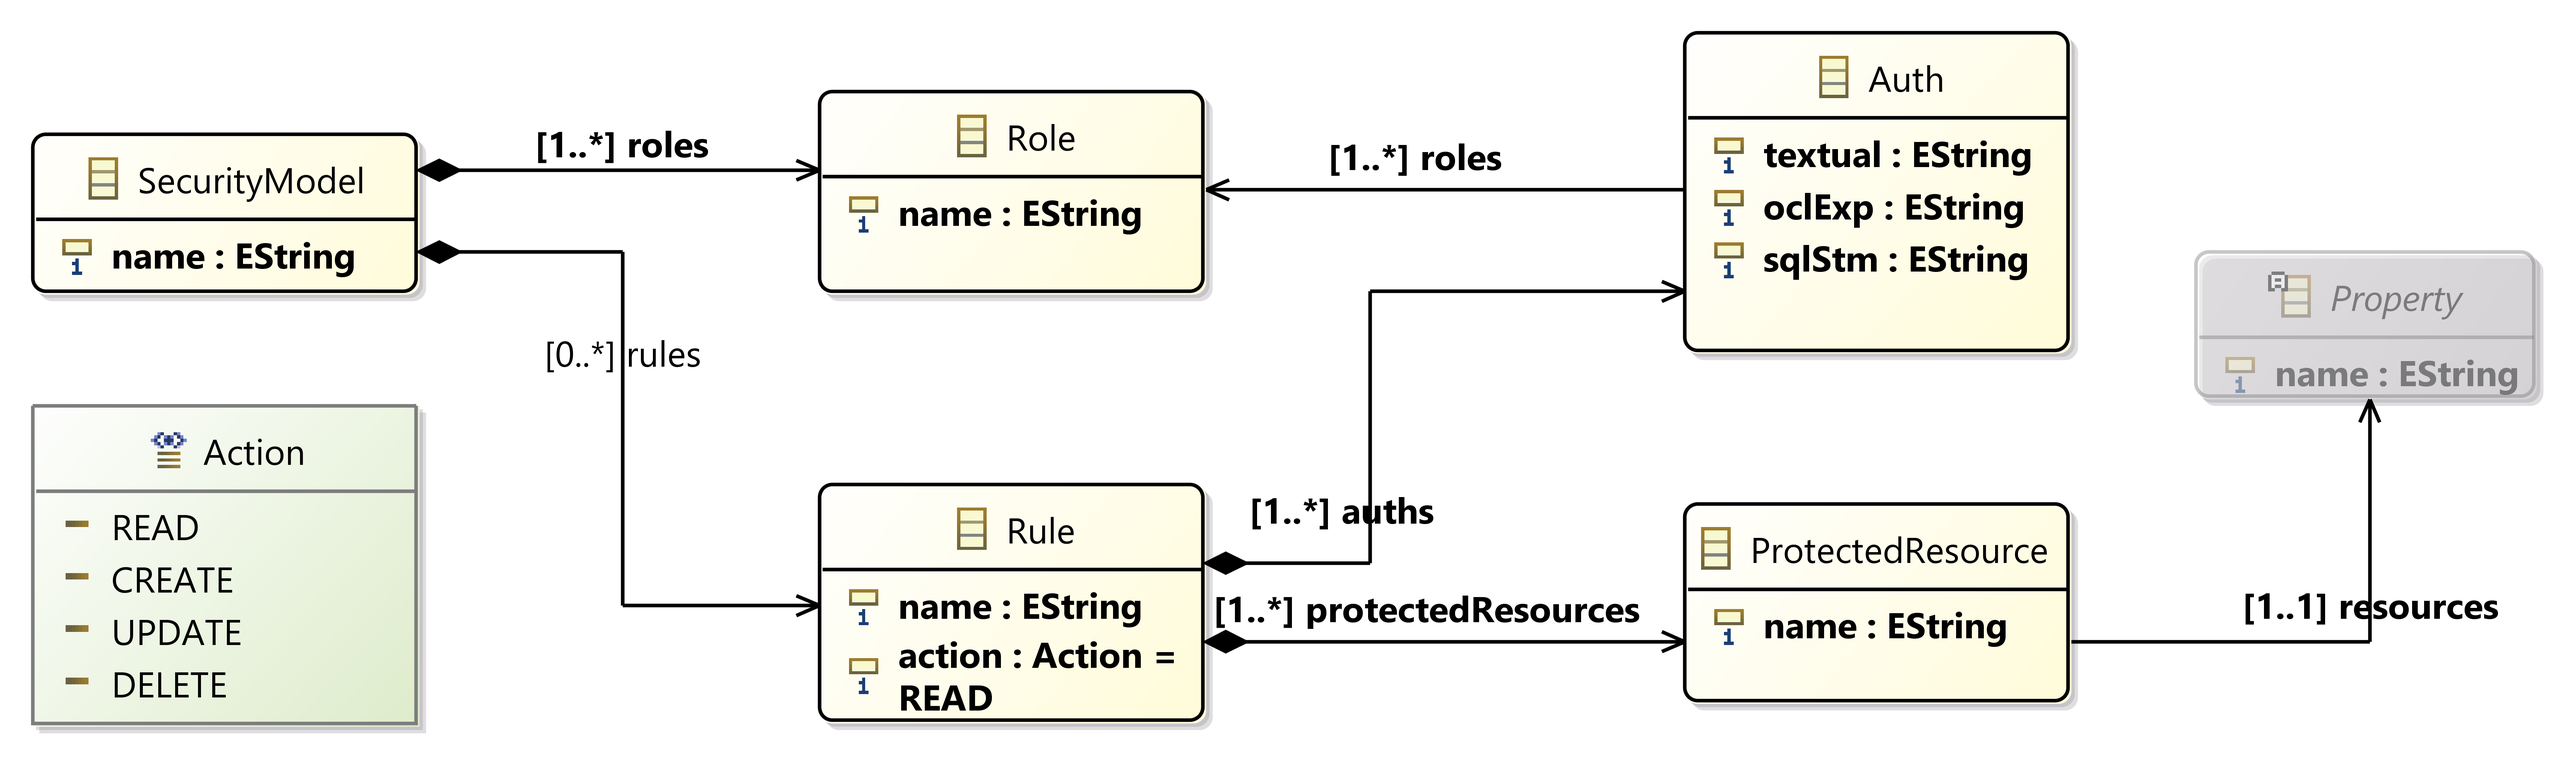
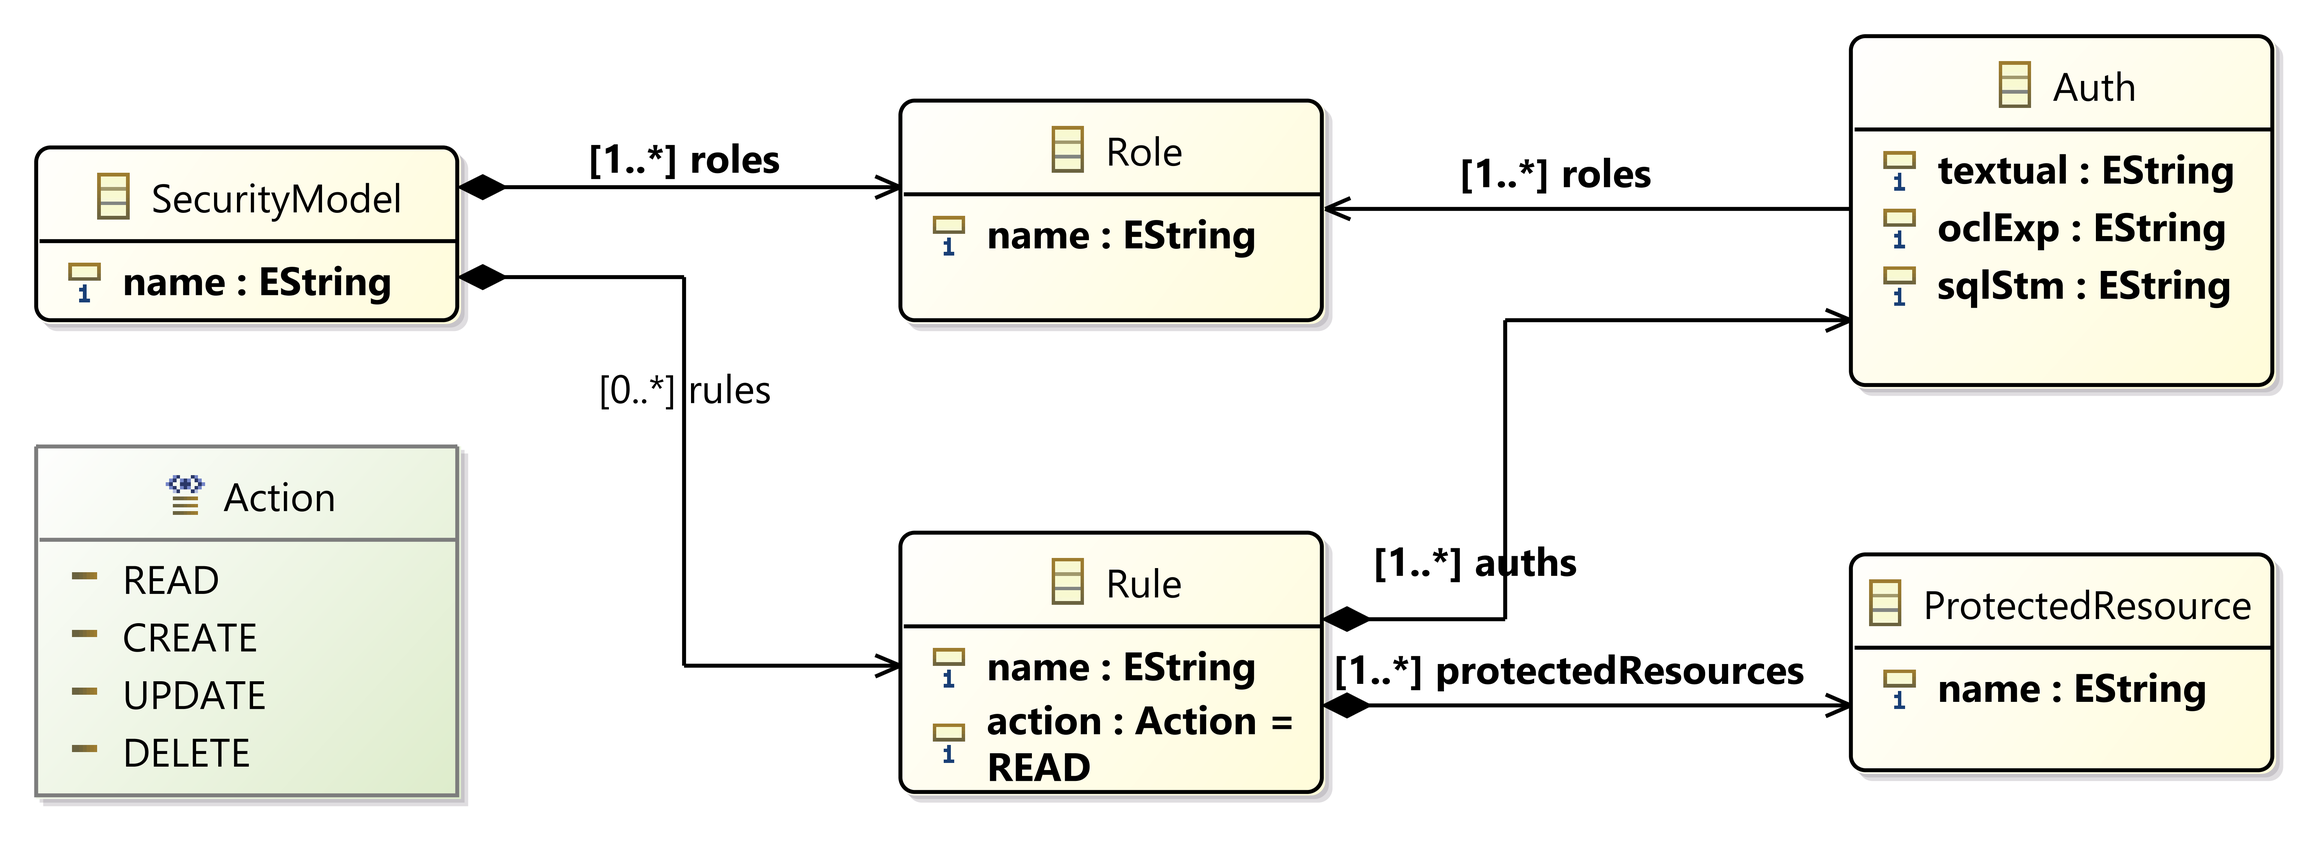
Small changes on the new metamodel version

diff --git a/securitymodels/src/securitymodels/impl/RoleImpl.java b/securitymodels/src/securitymodels/impl/RoleImpl.java
@@ -2,9 +2,12 @@
  */
 package securitymodels.impl;
 
+import datamodels.Entity;
+
 import org.eclipse.emf.common.notify.Notification;
 
 import org.eclipse.emf.ecore.EClass;
+import org.eclipse.emf.ecore.InternalEObject;
 
 import org.eclipse.emf.ecore.impl.ENotificationImpl;
 import org.eclipse.emf.ecore.impl.MinimalEObjectImpl;
@@ -21,6 +24,7 @@ import securitymodels.SecuritymodelsPackage;
  * </p>
  * <ul>
  *   <li>{@link securitymodels.impl.RoleImpl#getName <em>Name</em>}</li>
+ *   <li>{@link securitymodels.impl.RoleImpl#getUserEntity <em>User Entity</em>}</li>
  * </ul>
  *
  * @generated
@@ -45,6 +49,16 @@ public class RoleImpl extends MinimalEObjectImpl.Container implements Role {
 	 * @ordered
 	 */
 	protected String name = NAME_EDEFAULT;
+
+	/**
+	 * The cached value of the '{@link #getUserEntity() <em>User Entity</em>}' reference.
+	 * <!-- begin-user-doc -->
+	 * <!-- end-user-doc -->
+	 * @see #getUserEntity()
+	 * @generated
+	 * @ordered
+	 */
+	protected Entity userEntity;
 
 	/**
 	 * <!-- begin-user-doc -->
@@ -91,11 +105,52 @@ public class RoleImpl extends MinimalEObjectImpl.Container implements Role {
 	 * <!-- end-user-doc -->
 	 * @generated
 	 */
+	public Entity getUserEntity() {
+		if (userEntity != null && userEntity.eIsProxy()) {
+			InternalEObject oldUserEntity = (InternalEObject)userEntity;
+			userEntity = (Entity)eResolveProxy(oldUserEntity);
+			if (userEntity != oldUserEntity) {
+				if (eNotificationRequired())
+					eNotify(new ENotificationImpl(this, Notification.RESOLVE, SecuritymodelsPackage.ROLE__USER_ENTITY, oldUserEntity, userEntity));
+			}
+		}
+		return userEntity;
+	}
+
+	/**
+	 * <!-- begin-user-doc -->
+	 * <!-- end-user-doc -->
+	 * @generated
+	 */
+	public Entity basicGetUserEntity() {
+		return userEntity;
+	}
+
+	/**
+	 * <!-- begin-user-doc -->
+	 * <!-- end-user-doc -->
+	 * @generated
+	 */
+	public void setUserEntity(Entity newUserEntity) {
+		Entity oldUserEntity = userEntity;
+		userEntity = newUserEntity;
+		if (eNotificationRequired())
+			eNotify(new ENotificationImpl(this, Notification.SET, SecuritymodelsPackage.ROLE__USER_ENTITY, oldUserEntity, userEntity));
+	}
+
+	/**
+	 * <!-- begin-user-doc -->
+	 * <!-- end-user-doc -->
+	 * @generated
+	 */
 	@Override
 	public Object eGet(int featureID, boolean resolve, boolean coreType) {
 		switch (featureID) {
 			case SecuritymodelsPackage.ROLE__NAME:
 				return getName();
+			case SecuritymodelsPackage.ROLE__USER_ENTITY:
+				if (resolve) return getUserEntity();
+				return basicGetUserEntity();
 		}
 		return super.eGet(featureID, resolve, coreType);
 	}
@@ -110,6 +165,9 @@ public class RoleImpl extends MinimalEObjectImpl.Container implements Role {
 		switch (featureID) {
 			case SecuritymodelsPackage.ROLE__NAME:
 				setName((String)newValue);
+				return;
+			case SecuritymodelsPackage.ROLE__USER_ENTITY:
+				setUserEntity((Entity)newValue);
 				return;
 		}
 		super.eSet(featureID, newValue);
@@ -126,6 +184,9 @@ public class RoleImpl extends MinimalEObjectImpl.Container implements Role {
 			case SecuritymodelsPackage.ROLE__NAME:
 				setName(NAME_EDEFAULT);
 				return;
+			case SecuritymodelsPackage.ROLE__USER_ENTITY:
+				setUserEntity((Entity)null);
+				return;
 		}
 		super.eUnset(featureID);
 	}
@@ -140,6 +201,8 @@ public class RoleImpl extends MinimalEObjectImpl.Container implements Role {
 		switch (featureID) {
 			case SecuritymodelsPackage.ROLE__NAME:
 				return NAME_EDEFAULT == null ? name != null : !NAME_EDEFAULT.equals(name);
+			case SecuritymodelsPackage.ROLE__USER_ENTITY:
+				return userEntity != null;
 		}
 		return super.eIsSet(featureID);
 	}

diff --git a/securitymodels/src/securitymodels/SecuritymodelsPackage.java b/securitymodels/src/securitymodels/SecuritymodelsPackage.java
@@ -214,7 +214,7 @@ public interface SecuritymodelsPackage extends EPackage {
 	int RULE__AUTHS = 2;
 
 	/**
-	 * The feature id for the '<em><b>Protected Resources</b></em>' reference list.
+	 * The feature id for the '<em><b>Protected Resources</b></em>' containment reference list.
 	 * <!-- begin-user-doc -->
 	 * <!-- end-user-doc -->
 	 * @generated
@@ -260,13 +260,22 @@ public interface SecuritymodelsPackage extends EPackage {
 	int ROLE__NAME = 0;
 
 	/**
+	 * The feature id for the '<em><b>User Entity</b></em>' reference.
+	 * <!-- begin-user-doc -->
+	 * <!-- end-user-doc -->
+	 * @generated
+	 * @ordered
+	 */
+	int ROLE__USER_ENTITY = 1;
+
+	/**
 	 * The number of structural features of the '<em>Role</em>' class.
 	 * <!-- begin-user-doc -->
 	 * <!-- end-user-doc -->
 	 * @generated
 	 * @ordered
 	 */
-	int ROLE_FEATURE_COUNT = 1;
+	int ROLE_FEATURE_COUNT = 2;
 
 	/**
 	 * The number of operations of the '<em>Role</em>' class.
@@ -475,10 +484,10 @@ public interface SecuritymodelsPackage extends EPackage {
 	EReference getRule_Auths();
 
 	/**
-	 * Returns the meta object for the reference list '{@link securitymodels.Rule#getProtectedResources <em>Protected Resources</em>}'.
+	 * Returns the meta object for the containment reference list '{@link securitymodels.Rule#getProtectedResources <em>Protected Resources</em>}'.
 	 * <!-- begin-user-doc -->
 	 * <!-- end-user-doc -->
-	 * @return the meta object for the reference list '<em>Protected Resources</em>'.
+	 * @return the meta object for the containment reference list '<em>Protected Resources</em>'.
 	 * @see securitymodels.Rule#getProtectedResources()
 	 * @see #getRule()
 	 * @generated
@@ -505,6 +514,17 @@ public interface SecuritymodelsPackage extends EPackage {
 	 * @generated
 	 */
 	EAttribute getRole_Name();
+
+	/**
+	 * Returns the meta object for the reference '{@link securitymodels.Role#getUserEntity <em>User Entity</em>}'.
+	 * <!-- begin-user-doc -->
+	 * <!-- end-user-doc -->
+	 * @return the meta object for the reference '<em>User Entity</em>'.
+	 * @see securitymodels.Role#getUserEntity()
+	 * @see #getRole()
+	 * @generated
+	 */
+	EReference getRole_UserEntity();
 
 	/**
 	 * Returns the meta object for class '{@link securitymodels.ProtectedResource <em>Protected Resource</em>}'.
@@ -682,7 +702,7 @@ public interface SecuritymodelsPackage extends EPackage {
 		EReference RULE__AUTHS = eINSTANCE.getRule_Auths();
 
 		/**
-		 * The meta object literal for the '<em><b>Protected Resources</b></em>' reference list feature.
+		 * The meta object literal for the '<em><b>Protected Resources</b></em>' containment reference list feature.
 		 * <!-- begin-user-doc -->
 		 * <!-- end-user-doc -->
 		 * @generated
@@ -706,6 +726,14 @@ public interface SecuritymodelsPackage extends EPackage {
 		 * @generated
 		 */
 		EAttribute ROLE__NAME = eINSTANCE.getRole_Name();
+
+		/**
+		 * The meta object literal for the '<em><b>User Entity</b></em>' reference feature.
+		 * <!-- begin-user-doc -->
+		 * <!-- end-user-doc -->
+		 * @generated
+		 */
+		EReference ROLE__USER_ENTITY = eINSTANCE.getRole_UserEntity();
 
 		/**
 		 * The meta object literal for the '{@link securitymodels.impl.ProtectedResourceImpl <em>Protected Resource</em>}' class.

diff --git a/securitymodels/src/securitymodels/impl/SecuritymodelsPackageImpl.java b/securitymodels/src/securitymodels/impl/SecuritymodelsPackageImpl.java
@@ -283,6 +283,15 @@ public class SecuritymodelsPackageImpl extends EPackageImpl implements Securitym
 	 * <!-- end-user-doc -->
 	 * @generated
 	 */
+	public EReference getRole_UserEntity() {
+		return (EReference)roleEClass.getEStructuralFeatures().get(1);
+	}
+
+	/**
+	 * <!-- begin-user-doc -->
+	 * <!-- end-user-doc -->
+	 * @generated
+	 */
 	public EClass getProtectedResource() {
 		return protectedResourceEClass;
 	}
@@ -361,6 +370,7 @@ public class SecuritymodelsPackageImpl extends EPackageImpl implements Securitym
 
 		roleEClass = createEClass(ROLE);
 		createEAttribute(roleEClass, ROLE__NAME);
+		createEReference(roleEClass, ROLE__USER_ENTITY);
 
 		protectedResourceEClass = createEClass(PROTECTED_RESOURCE);
 		createEReference(protectedResourceEClass, PROTECTED_RESOURCE__RESOURCES);
@@ -418,10 +428,11 @@ public class SecuritymodelsPackageImpl extends EPackageImpl implements Securitym
 		initEAttribute(getRule_Name(), ecorePackage.getEString(), "name", null, 1, 1, Rule.class, !IS_TRANSIENT, !IS_VOLATILE, IS_CHANGEABLE, !IS_UNSETTABLE, !IS_ID, IS_UNIQUE, !IS_DERIVED, IS_ORDERED);
 		initEAttribute(getRule_Action(), this.getAction(), "action", null, 1, 1, Rule.class, !IS_TRANSIENT, !IS_VOLATILE, IS_CHANGEABLE, !IS_UNSETTABLE, !IS_ID, IS_UNIQUE, !IS_DERIVED, IS_ORDERED);
 		initEReference(getRule_Auths(), this.getAuth(), null, "auths", null, 1, -1, Rule.class, !IS_TRANSIENT, !IS_VOLATILE, IS_CHANGEABLE, IS_COMPOSITE, !IS_RESOLVE_PROXIES, !IS_UNSETTABLE, IS_UNIQUE, !IS_DERIVED, IS_ORDERED);
-		initEReference(getRule_ProtectedResources(), this.getProtectedResource(), null, "protectedResources", null, 1, -1, Rule.class, !IS_TRANSIENT, !IS_VOLATILE, IS_CHANGEABLE, !IS_COMPOSITE, IS_RESOLVE_PROXIES, !IS_UNSETTABLE, IS_UNIQUE, !IS_DERIVED, IS_ORDERED);
+		initEReference(getRule_ProtectedResources(), this.getProtectedResource(), null, "protectedResources", null, 1, -1, Rule.class, !IS_TRANSIENT, !IS_VOLATILE, IS_CHANGEABLE, IS_COMPOSITE, !IS_RESOLVE_PROXIES, !IS_UNSETTABLE, IS_UNIQUE, !IS_DERIVED, IS_ORDERED);
 
 		initEClass(roleEClass, Role.class, "Role", !IS_ABSTRACT, !IS_INTERFACE, IS_GENERATED_INSTANCE_CLASS);
 		initEAttribute(getRole_Name(), ecorePackage.getEString(), "name", null, 1, 1, Role.class, !IS_TRANSIENT, !IS_VOLATILE, IS_CHANGEABLE, !IS_UNSETTABLE, !IS_ID, IS_UNIQUE, !IS_DERIVED, IS_ORDERED);
+		initEReference(getRole_UserEntity(), theDatamodelsPackage.getEntity(), null, "userEntity", null, 1, 1, Role.class, !IS_TRANSIENT, !IS_VOLATILE, IS_CHANGEABLE, !IS_COMPOSITE, IS_RESOLVE_PROXIES, !IS_UNSETTABLE, IS_UNIQUE, !IS_DERIVED, IS_ORDERED);
 
 		initEClass(protectedResourceEClass, ProtectedResource.class, "ProtectedResource", !IS_ABSTRACT, !IS_INTERFACE, IS_GENERATED_INSTANCE_CLASS);
 		initEReference(getProtectedResource_Resources(), theDatamodelsPackage.getProperty(), null, "resources", null, 1, 1, ProtectedResource.class, !IS_TRANSIENT, !IS_VOLATILE, IS_CHANGEABLE, !IS_COMPOSITE, IS_RESOLVE_PROXIES, !IS_UNSETTABLE, IS_UNIQUE, !IS_DERIVED, IS_ORDERED);

diff --git a/securitymodels/src/securitymodels/impl/RuleImpl.java b/securitymodels/src/securitymodels/impl/RuleImpl.java
@@ -16,7 +16,6 @@ import org.eclipse.emf.ecore.impl.ENotificationImpl;
 import org.eclipse.emf.ecore.impl.MinimalEObjectImpl;
 
 import org.eclipse.emf.ecore.util.EObjectContainmentEList;
-import org.eclipse.emf.ecore.util.EObjectResolvingEList;
 import org.eclipse.emf.ecore.util.InternalEList;
 
 import securitymodels.Action;
@@ -93,7 +92,7 @@ public class RuleImpl extends MinimalEObjectImpl.Container implements Rule {
 	protected EList<Auth> auths;
 
 	/**
-	 * The cached value of the '{@link #getProtectedResources() <em>Protected Resources</em>}' reference list.
+	 * The cached value of the '{@link #getProtectedResources() <em>Protected Resources</em>}' containment reference list.
 	 * <!-- begin-user-doc -->
 	 * <!-- end-user-doc -->
 	 * @see #getProtectedResources()
@@ -182,7 +181,7 @@ public class RuleImpl extends MinimalEObjectImpl.Container implements Rule {
 	 */
 	public EList<ProtectedResource> getProtectedResources() {
 		if (protectedResources == null) {
-			protectedResources = new EObjectResolvingEList<ProtectedResource>(ProtectedResource.class, this, SecuritymodelsPackage.RULE__PROTECTED_RESOURCES);
+			protectedResources = new EObjectContainmentEList<ProtectedResource>(ProtectedResource.class, this, SecuritymodelsPackage.RULE__PROTECTED_RESOURCES);
 		}
 		return protectedResources;
 	}
@@ -197,6 +196,8 @@ public class RuleImpl extends MinimalEObjectImpl.Container implements Rule {
 		switch (featureID) {
 			case SecuritymodelsPackage.RULE__AUTHS:
 				return ((InternalEList<?>)getAuths()).basicRemove(otherEnd, msgs);
+			case SecuritymodelsPackage.RULE__PROTECTED_RESOURCES:
+				return ((InternalEList<?>)getProtectedResources()).basicRemove(otherEnd, msgs);
 		}
 		return super.eInverseRemove(otherEnd, featureID, msgs);
 	}

diff --git a/securitymodels/src/securitymodels/Role.java b/securitymodels/src/securitymodels/Role.java
@@ -2,6 +2,8 @@
  */
 package securitymodels;
 
+import datamodels.Entity;
+
 import org.eclipse.emf.ecore.EObject;
 
 /**
@@ -14,6 +16,7 @@ import org.eclipse.emf.ecore.EObject;
  * </p>
  * <ul>
  *   <li>{@link securitymodels.Role#getName <em>Name</em>}</li>
+ *   <li>{@link securitymodels.Role#getUserEntity <em>User Entity</em>}</li>
  * </ul>
  *
  * @see securitymodels.SecuritymodelsPackage#getRole()
@@ -46,5 +49,31 @@ public interface Role extends EObject {
 	 * @generated
 	 */
 	void setName(String value);
+
+	/**
+	 * Returns the value of the '<em><b>User Entity</b></em>' reference.
+	 * <!-- begin-user-doc -->
+	 * <p>
+	 * If the meaning of the '<em>User Entity</em>' reference isn't clear,
+	 * there really should be more of a description here...
+	 * </p>
+	 * <!-- end-user-doc -->
+	 * @return the value of the '<em>User Entity</em>' reference.
+	 * @see #setUserEntity(Entity)
+	 * @see securitymodels.SecuritymodelsPackage#getRole_UserEntity()
+	 * @model required="true"
+	 * @generated
+	 */
+	Entity getUserEntity();
+
+	/**
+	 * Sets the value of the '{@link securitymodels.Role#getUserEntity <em>User Entity</em>}' reference.
+	 * <!-- begin-user-doc -->
+	 * <!-- end-user-doc -->
+	 * @param value the new value of the '<em>User Entity</em>' reference.
+	 * @see #getUserEntity()
+	 * @generated
+	 */
+	void setUserEntity(Entity value);
 
 } // Role

diff --git a/securitymodels/src/securitymodels/Rule.java b/securitymodels/src/securitymodels/Rule.java
@@ -98,17 +98,17 @@ public interface Rule extends EObject {
 	EList<Auth> getAuths();
 
 	/**
-	 * Returns the value of the '<em><b>Protected Resources</b></em>' reference list.
+	 * Returns the value of the '<em><b>Protected Resources</b></em>' containment reference list.
 	 * The list contents are of type {@link securitymodels.ProtectedResource}.
 	 * <!-- begin-user-doc -->
 	 * <p>
-	 * If the meaning of the '<em>Protected Resources</em>' reference list isn't clear,
+	 * If the meaning of the '<em>Protected Resources</em>' containment reference list isn't clear,
 	 * there really should be more of a description here...
 	 * </p>
 	 * <!-- end-user-doc -->
-	 * @return the value of the '<em>Protected Resources</em>' reference list.
+	 * @return the value of the '<em>Protected Resources</em>' containment reference list.
 	 * @see securitymodels.SecuritymodelsPackage#getRule_ProtectedResources()
-	 * @model required="true"
+	 * @model containment="true" required="true"
 	 * @generated
 	 */
 	EList<ProtectedResource> getProtectedResources();

diff --git a/securitymodels.edit/src/securitymodels/provider/RoleItemProvider.java b/securitymodels.edit/src/securitymodels/provider/RoleItemProvider.java
@@ -61,6 +61,7 @@ public class RoleItemProvider
 			super.getPropertyDescriptors(object);
 
 			addNamePropertyDescriptor(object);
+			addUserEntityPropertyDescriptor(object);
 		}
 		return itemPropertyDescriptors;
 	}
@@ -83,6 +84,28 @@ public class RoleItemProvider
 				 false,
 				 false,
 				 ItemPropertyDescriptor.GENERIC_VALUE_IMAGE,
+				 null,
+				 null));
+	}
+
+	/**
+	 * This adds a property descriptor for the User Entity feature.
+	 * <!-- begin-user-doc -->
+	 * <!-- end-user-doc -->
+	 * @generated
+	 */
+	protected void addUserEntityPropertyDescriptor(Object object) {
+		itemPropertyDescriptors.add
+			(createItemPropertyDescriptor
+				(((ComposeableAdapterFactory)adapterFactory).getRootAdapterFactory(),
+				 getResourceLocator(),
+				 getString("_UI_Role_userEntity_feature"),
+				 getString("_UI_PropertyDescriptor_description", "_UI_Role_userEntity_feature", "_UI_Role_type"),
+				 SecuritymodelsPackage.Literals.ROLE__USER_ENTITY,
+				 true,
+				 false,
+				 true,
+				 null,
 				 null,
 				 null));
 	}
